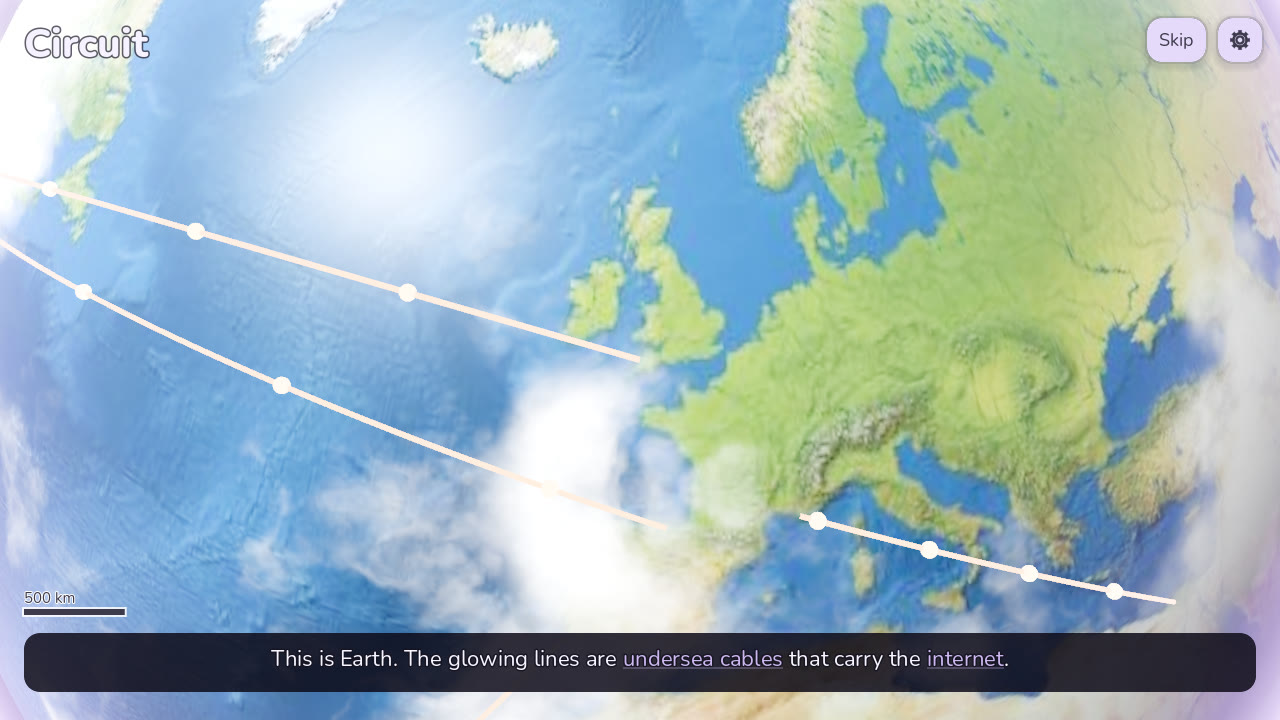
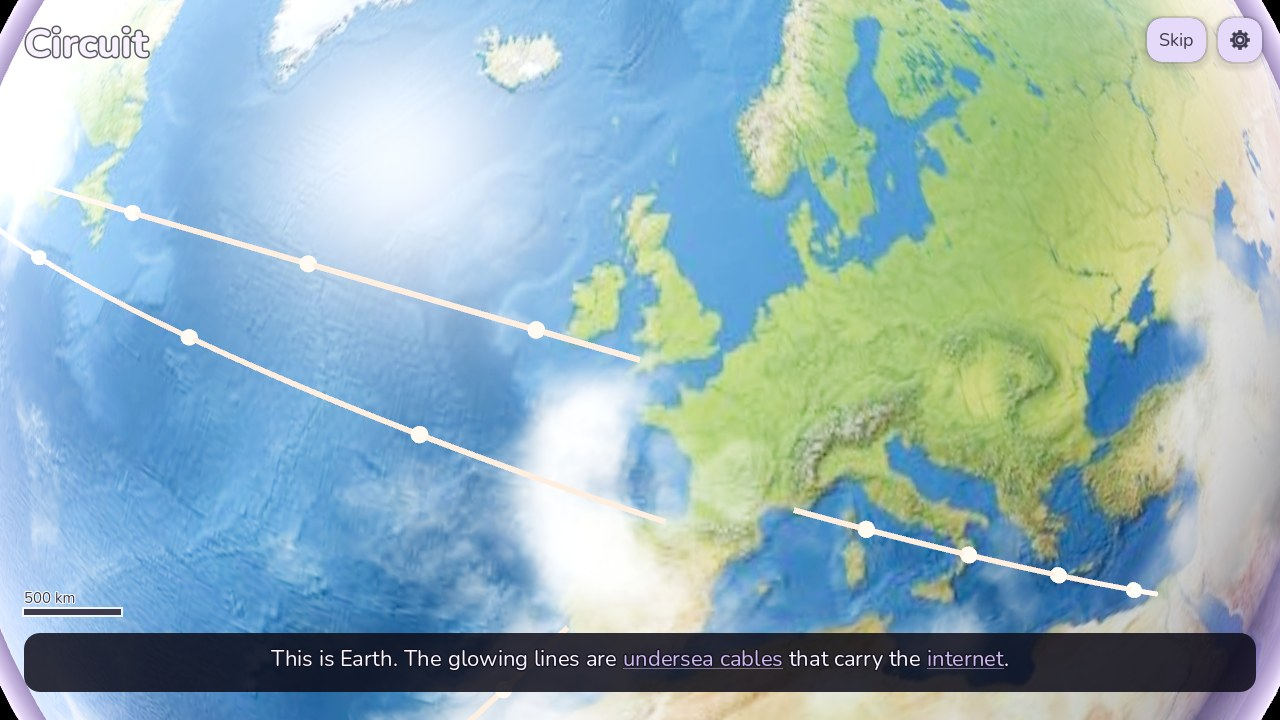
chore: v0.3.0 Class Is In
New store screenshots with the course (a lesson card, Meet the part,
Try it with its truth table, the recap), release notes and itch text
brought up to date, and the copper caption no longer drawn over
Lesson 9's recap.

Claude-Session: https://claude.ai/code/session_01SbT58pwimwCycsv6yHSymZ

diff --git a/docs/itch-page.md b/docs/itch-page.md
@@ -15,7 +15,7 @@ Circuit starts with a battery, a resistor and an LED on a workbench, and one day
 
 - **Real parts, really simulated.** Every circuit is solved the way engineers solve them. LEDs glow up to their recommended current, wear out past it and burn out past their absolute maximum; a ¼-watt resistor really does overheat at half a watt.
 - **Built true to size.** A 3D bench under studio lighting: perfboard, battery holder, multimeters, every part at its real size. Switch to the schematic view any time.
-- **A real course.** Each lesson says what you'll learn, then explains one idea at a time with a moving picture. You meet every new part in 3D (spin it, look inside it), try things on a ready-made circuit (burn an LED on purpose, fill in a truth table, make a short and watch the battery heat up), then build it yourself, with a "Why?" on every step. A recap, a quick question or two and a fact from history close each lesson.
+- **A real course.** Each lesson says what you'll learn, then explains one idea at a time with a moving picture. You meet every new part in 3D (spin it, look inside it), try things on a ready-made circuit (burn an LED on purpose, fill in a truth table, make a short and watch the battery heat up), then build it yourself, with a "Why?" on every step. A recap, a quick question or two and one more fact, with its source, close each lesson.
 - **Help that teaches.** Pip guides you with a checklist, a step-by-step calculator, datasheets and three tiers of hints. Every new word is defined the first time you see it, and your Notebook is a textbook: every lesson, part and word, to read again.
 - **Zoom into everything.** The title flies from the whole Earth, past an undersea cable coming ashore, down to a single silicon atom. In the last level you zoom into a wire until you see its copper atoms and the electrons drifting through them.
 - **Gentle by design.** Pastel colors, soft sounds and a calm lo-fi soundtrack. No accounts, no ads, no purchases, and the game never goes online.
@@ -39,8 +39,11 @@ Made with Godot Engine. Fonts: Nunito (SIL Open Font License) and DejaVu Sans. E
 In `docs/itch/`, in this order:
 
 1. `1-title-earth.jpg`: the title over Earth, with undersea cables.
-2. `2-title-coast.jpg`: the zoom reaching the coast where a cable comes ashore.
-3. `3-bench.jpg`: Level 1 on the realistic workbench, with Pip's checklist.
-4. `4-datasheet.jpg`: an LED's datasheet, with its 3D model and real numbers.
-5. `5-phone.jpg`: Level 3 on a phone, the trimmer ready to turn.
-6. `6-copper.jpg`: inside the wire: copper atoms and drifting electrons.
+2. `2-lesson-card.jpg`: a Lesson 2 card: how the battery's 5 V push is shared round the loop.
+3. `3-meet-the-part.jpg`: Meet the part: the LED, its legs and where you'll find one.
+4. `4-try-it.jpg`: Lesson 5's Try it: switches A and B, and the truth table to fill in.
+5. `5-bench.jpg`: Lesson 1 on the realistic workbench, with Pip's checklist.
+6. `6-datasheet.jpg`: an LED's datasheet, with its 3D model and real numbers.
+7. `7-recap.jpg`: Lesson 2's recap, filled in from the player's own circuit.
+8. `8-phone.jpg`: Lesson 3 on a phone, the trimmer ready to turn.
+9. `9-copper.jpg`: inside the wire: copper atoms and drifting electrons.

diff --git a/docs/release-notes.md b/docs/release-notes.md
@@ -9,9 +9,9 @@ Chapter 1 is now a course. Every lesson teaches before it asks: what you'll lear
 - **Meet the part.** Every part has its own card: the real part in 3D on a turntable (drag to spin it), its legs named, what it does, where you'd find one, and a cutaway to look inside.
 - **Try it.** A ready-made circuit to poke at before you build: break a loop and fix it, burn an LED on purpose, turn a dial and watch the current halve, fill in a truth table, make a short and watch the battery heat up, flip the picture to the electrons' way.
 - **Why?** on every step, and on each of Pip's warnings.
-- **Recap.** What you learned, with your own numbers; a question or two that explains every answer; and a fact from history. Put it away to look at your circuit, and bring it back with the Recap button.
+- **Recap.** What you learned, with your own numbers; a question or two that explains every answer; and one more fact, with its source. Put it away to look at your circuit, and bring it back with the Recap button.
 - **The Notebook is a textbook.** Read any lesson again, meet any part again, look up any word, and once Chapter 1 is done, read its summary.
-- **Easier for beginners.** Tray items name their parts, flat buttons have an edge, moving pictures say when they're sped up, and new words are defined where they first appear (cell, lead, leg, drift, gauge, probe, truth table, binary, circuit breaker).
+- **Easier for beginners.** Tray items name their parts, flat buttons have an edge, switches show their names on the bench, moving pictures say when they're sped up, and new words are defined where they first appear (across, cell, lead, leg, drift, gauge, metal film, probe, truth table, binary, circuit breaker).
 - **Phones.** On a landscape phone a card's picture sits beside its words; on the smallest phones, with Large text, every card fits or scrolls and every button can be reached.
 
 ## Coming from v0.2.0
